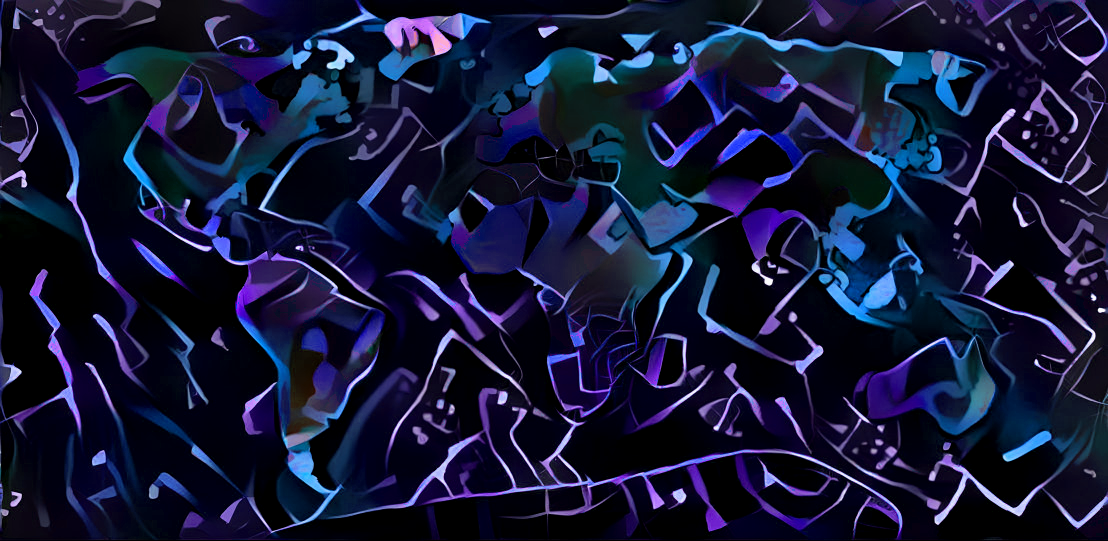
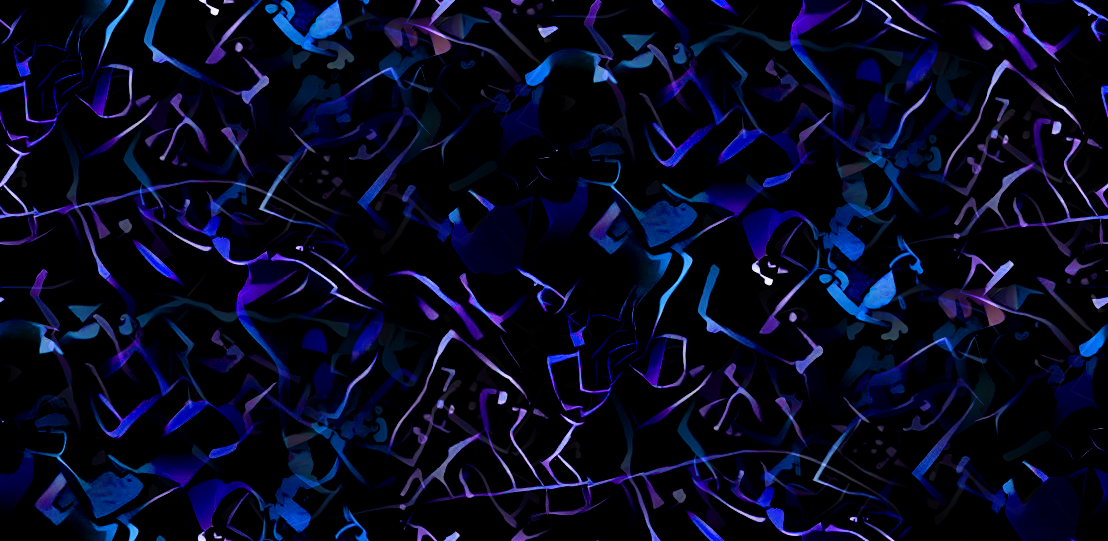
s

diff --git a/CSS/mainstyle.css b/CSS/mainstyle.css
@@ -4,9 +4,11 @@
     font-family: 'Montserrat';
 }
 body {
-    background-image: url("../images/map.png");
-    background-attachment: fixed;
-    background-position: center;
+    background-image: url("../images/map.png") no-repeat center center fixed;
+    -webkit-background-size: cover;
+    -moz-background-size: cover;
+    -o-background-size: cover;
+    background-size: cover;
     color: white;
     transition: 0.35s ease-in-out;
     overflow-x: hidden;
